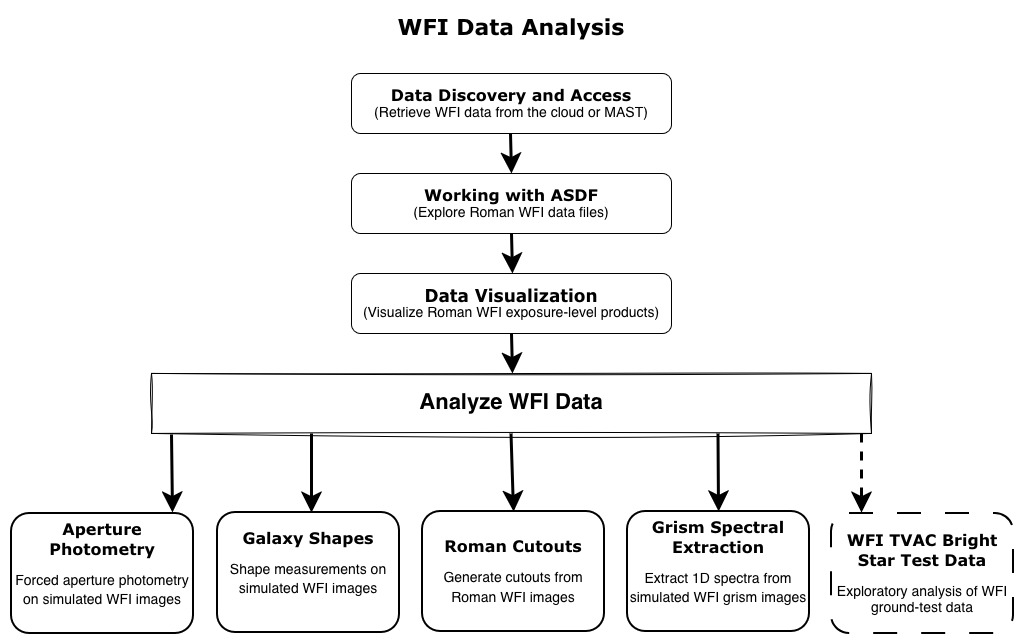
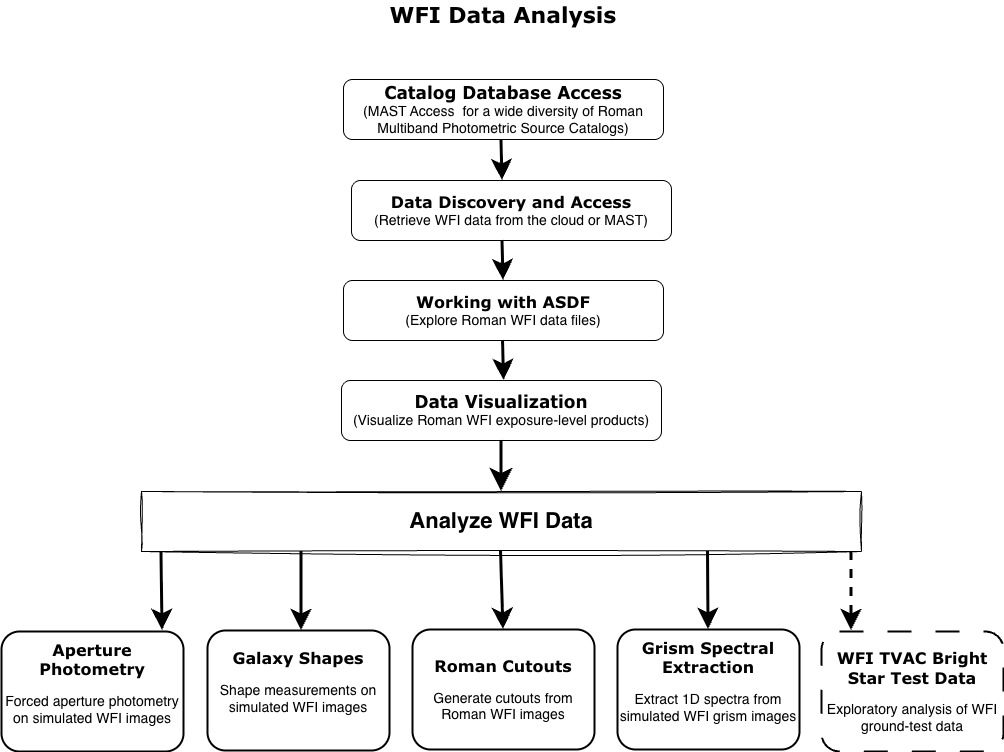
Merge pull request #245 from rizeladiaz/new_makdown_ch
Update markdown files to add new notebook and fix dither

Pull request: Update markdown files to add new notebook and fix dither
Updated the Data Analysis workflow diagram and markdown file to add the catalog_database_acess notebook. This new notebook was also added to the Tutorial markdown file. 

The dither patter in the simulated-data.md file was updated to match the dither used to regenerate the simulations for this release.

diff --git a/markdown/simulated-data.md b/markdown/simulated-data.md
@@ -16,15 +16,15 @@ The Roman I-Sim products have metadata and an organizational structure identical
 
 Roman I-Sim products are created using reference files from the [Calibration Reference Data System](https://roman-docs.stsci.edu/data-handbook-home/accessing-wfi-data/crds-for-reference-files) (CRDS). Therefore, the accuracy of the instrumental effects in the simulations is only as good as the reference files used to create them. The current suite contains preliminary versions of reference files based on ground testing, and it is expected to improve as characterization of the ground test data continues. Questions regarding calibration reference files should be sent to the [Roman Helpdesk at STScI](https://stsci.service-now.com/roman).
 
-The Roman I-Sim simulated products include four full-focal-plane exposures (18 detectors each) in a four-point box dither pattern near the globular cluster NGC 6535, centered at (RA, Dec) = (270.94, –0.2) deg, using the F106 optical element. The offset in the dither pattern is approximately half a detector in both X and Y directions to ensure complete filling of the gaps between detectors. The table below shows the dither pattern used for the simulation, where the offsets are given relative to the first point in the pattern:
+The Roman I-Sim simulated products include four full-focal-plane exposures (18 detectors each) in a four-point box dither pattern near the globular cluster NGC 6535, centered at (RA, Dec) = (270.94, –0.2) deg, using the F106 optical element. The offset in the dither pattern is approximately half a detector in both X and Y directions to ensure complete filling of the gaps between detectors. The table below shows the dither pattern used for the simulation, where each offset represents the offset from the previous position. So, the zeroth position starts with offsets of 0.00 in both X and Y, and the first position is relative to the zeroth one, the second position is relative to the first, etc. Here is the pattern:
 
 
 | Dither Step | Offset X (arcsec) | Offset Y (arcsec) |
-| --- | --- | --- |
-| 0 | 0.00 | 0.00 |
-| 1 | -205.20 | 0.88 |
-| 2 | -204.32 | 206.08 |
-| 3 | 0.88 | 205.20 |
+| --- |   ---  |   ---   |
+| 0   | 0.00   | 0.00    |
+| 1   | 0.55   | 200.55  |
+| 2   | 200.55 | 0.55    |
+| 3   | 0.55   | -200.55 |
 
 From these four full-focal-plane exposures, a mosaic for detector 11 (WFI11) is also generated using each of the dither positions that cover the full extent of NGC 6535.
 

diff --git a/markdown/tutorials.md b/markdown/tutorials.md
@@ -19,6 +19,10 @@ Below is the current set of Notebook Tutorials available in the Nexus. Each tuto
 
 ### Data Access and Exploration
 
+- [**Catalog Database Access**](../notebooks/cayalog_database_access/catalog_database_access.ipynb)  
+
+  Access and query a wide diversity of Roman catalogs from MAST databases.
+
 - [**Data Discovery and Access**](../notebooks/data_discovery_and_access/data_discovery_and_access.ipynb)
 
   Retrieve data from MAST or access simulated Roman data in the cloud archive ("S3 bucket").

diff --git a/markdown/workflows/wfi-data-analysis.md b/markdown/workflows/wfi-data-analysis.md
@@ -4,6 +4,10 @@ This science workflow guides users through the discovery and access of data whil
 
 ## Workflow Description
 
+- [**Catalog Database Access**](../notebooks/cayalog_database_access/catalog_database_access.ipynb)  
+
+   Access and query, from MAST databases, a wide diversity of Roman multiband photometric source catalogs from WFI imaging; spectral catalogs derived from WFI grism and prism spectroscopy; microlensing event variability and light curve catalogs; and Project Infrastructure team created catalogs, enabling efficient filtering and sample selection across both spatial location and miriad other properties
+
 - [**Data Discovery and Access**](../../notebooks/data_discovery_and_access/data_discovery_and_access.ipynb)
 
   Retrieve WFI simulated images from the cloud or access data from active missions (e.g. Hubble, TESS, and JWST) from MAST. Data are streamed directly into memory, removing the need for local downloads. Users can access datasets hosted by [STScI MAST](https://archive.stsci.edu/) or simulated Roman WFI data stored in the Nexus environment. To learn more, visit the [RDox pages on accessing Roman WFI data](https://roman-docs.stsci.edu/data-handbook-home/accessing-wfi-data).